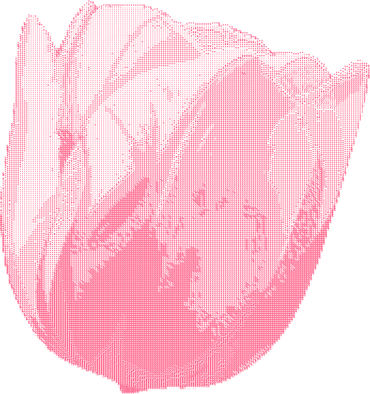
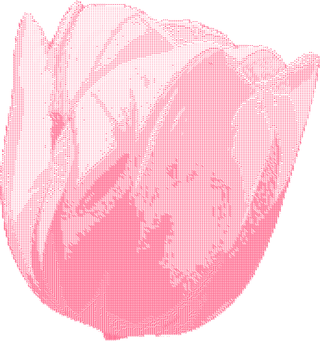
feat: knip

diff --git a/app/components/AsciiArt/index.tsx b/app/components/AsciiArt/index.tsx
@@ -3,14 +3,14 @@ import Navigation from "../navigation";
 
 const AsciiArt = () => (
   <div className="flex h-full flex-col items-center justify-center">
-    <div className="fade-in ml-8 w-full max-w-[260px] lg:mx-auto">
+    <div className="fade-in ml-8 w-full max-w-[300px] lg:mx-auto lg:max-w-[300px]">
       <Image
         alt="Rose"
         className="h-auto w-full select-none"
-        height={260}
+        height={300}
         priority
         src="/rose.webp"
-        width={260}
+        width={300}
       />
     </div>
     <div className="fade-in">

diff --git a/scripts/build-ascii-art.ts b/scripts/build-ascii-art.ts
@@ -263,13 +263,13 @@ const generateWebP = async (asciiArt: string): Promise<void> => {
   );
   ensureDir(PUBLIC_DIR);
 
-  const targetWidth = 370;
+  const targetWidth = 320;
   const svgBuffer = Buffer.from(svgMarkup);
   await sharp(svgBuffer)
     .resize({ width: targetWidth })
     .flip()
     .trim()
-    .webp({ quality: 82, effort: 4 })
+    .webp()
     .toFile(WEBP_PATH);
 };
 
